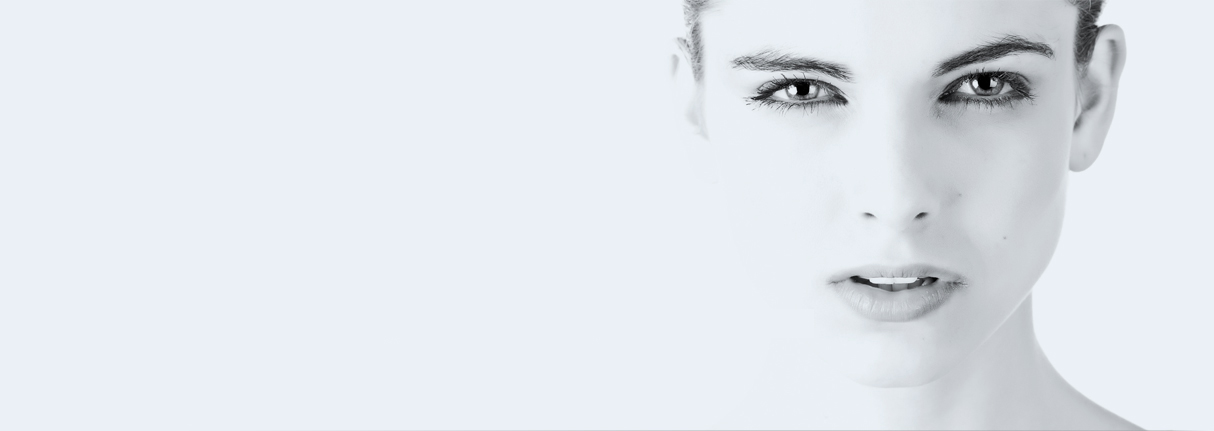
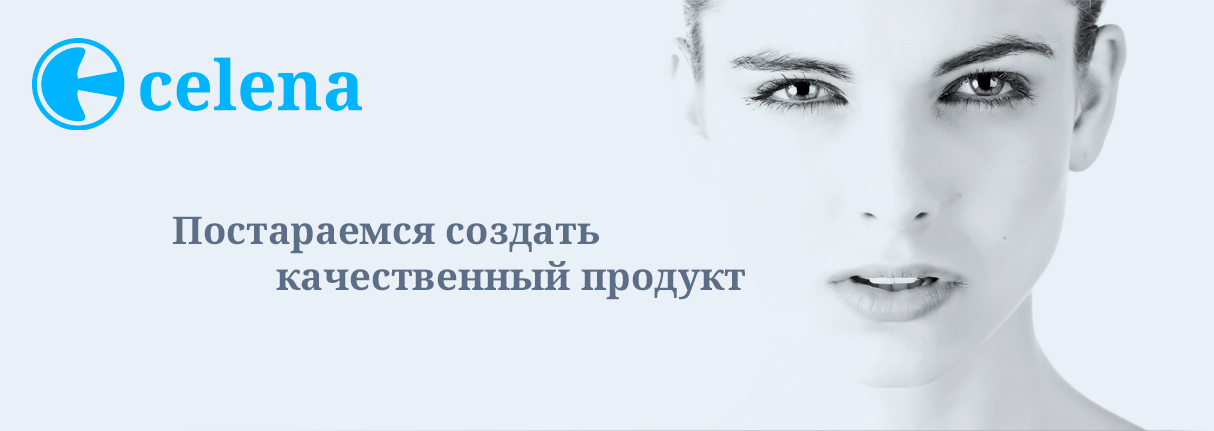
Bata Final

Changed region(s): [[0.0, 0.0905, 0.3048, 0.3016], [0.2133, 0.6032, 0.6096, 0.6937], [0.1219, 0.4826, 0.5181, 0.5731]]

diff --git a/app/core/system/install/css/style.css b/app/core/system/install/css/style.css
@@ -648,7 +648,10 @@ table:not(.table-condensed) td {
 }
 h1{
     font-size: 18px;
-    margin-bottom: 15px;
+    margin-bottom: 10px;
+    display: flex;
+    align-items: center;
+    border-bottom: 1px #87cdff dashed;
 }
 .licence_text{
     background: #f2f3f7;
@@ -682,7 +685,7 @@ input[type="submit"]{
     color: #a9b2c9;
     font-style: italic;
     display: block;
-    margin: -10px 0 20px;
+    margin: -5px 0 20px;
 }
 .errorText{
     color: #F75858;
@@ -720,10 +723,10 @@ input[type="submit"]{
     text-align: center;
 }
 #celena_logo{
[1 lines of base64/hex data omitted]
-    background-size: 27px;
[1 lines of base64/hex data omitted]
+    background-size: 135px;
+    width: 145px;
+    height: 40px;
     display: inline-block;
-    padding: 10px 10px 10px 32px;
-    color: #47b3ff;
-    font-size: 21px;
+    margin-bottom: 5px;
 }

diff --git a/templates/_system/css/panel.css b/templates/_system/css/panel.css
@@ -210,7 +210,7 @@ body::-webkit-scrollbar-thumb{background:#7192A9A5}
     background: #1b202c;
     font-weight: 700;
     font-size: 24px;
-    padding: 14px 15px;
+    padding: 0 15px;
     display: flex;
     justify-content: space-between;
     align-items: center;
@@ -219,10 +219,12 @@ body::-webkit-scrollbar-thumb{background:#7192A9A5}
     color: var(--main-color);
 }
 #celena_logo{
[1 lines of base64/hex data omitted]
-    background-size: 27px;
-    padding-left: 37px;
[1 lines of base64/hex data omitted]
+    background-size: 135px;
+    width: 180px;
+    height: 57px;
     color: #47b3ff;
+    display: block;
 }
 
 .box, .box_{

diff --git a/templates/Web/css/style.css b/templates/Web/css/style.css
@@ -194,11 +194,11 @@ hr{
     z-index: 9900;
 }
 #logo{
[1 lines of base64/hex data omitted]
-    background-size: 50px;
[1 lines of base64/hex data omitted]
+    background-size: 175px;
     width: 208px;
+    height: 66px;
     display: block;
-    padding: 21px 10px 21px 75px;
     color: #47b3ff;
     font-size: 18px;
     font-weight: 600;

diff --git a/templates/Panel/css/style.css b/templates/Panel/css/style.css
@@ -254,7 +254,6 @@ ul{
     background: #f5f8ff;
     font-weight: 700;
     font-size: 24px;
-    padding: 14px 15px;
     display: flex;
     justify-content: space-between;
     align-items: center;

diff --git a/app/core/system/install/steps/Start.php b/app/core/system/install/steps/Start.php
@@ -25,7 +25,7 @@ class Start{
     public function indexAction(){
 
         return '<form action method="POST">
-            <h1><a href="//celena.io/" id="celena_logo" target="_blank">celena</a> Начало установки</h1>
+            <h1><a href="//celena.io/" id="celena_logo" target="_blank" title="Celena logo"></a> Начало установки</h1>
             <div class="licence_text">
                 Lorem ipsum dolor sit amet, consectetur adipisicing elit. Accusamus accusantium ipsum iste itaque iure natus, nisi nobis quibusdam rerum sunt! Ad assumenda autem eaque esse fugiat id iste iure modi neque omnis, optio quas, quisquam sed tempore ut vero, voluptatibus voluptatum! Accusamus eveniet facilis, fugiat in non praesentium quibusdam veniam veritatis? Ad consectetur cupiditate deserunt dolorem fuga id natus quae quibusdam. Architecto iste molestiae natus nulla quisquam! Alias asperiores consectetur culpa magnam modi molestiae, voluptatum. Ad, aliquam assumenda dignissimos doloremque doloribus eaque, est expedita in necessitatibus nemo non nostrum quaerat quos ratione reiciendis sit, tempora tempore veritatis vitae voluptatem? Aliquid amet atque, consequuntur, deleniti eos error expedita facere facilis harum illum minus natus nesciunt nisi, nostrum odit optio perspiciatis quaerat quas quibusdam quo rerum saepe soluta tenetur ut voluptates. Delectus facere facilis, incidunt minus necessitatibus omnis quaerat quis tempora? Accusamus ad aut, consectetur consequuntur cupiditate est excepturi facilis in natus nesciunt non obcaecati officiis quasi quidem soluta veritatis voluptates voluptatum! Accusantium adipisci alias dignissimos dolorem dolores eius eveniet, expedita fuga hic impedit ipsum maxime, minima omnis quisquam quod, ratione sed temporibus voluptas! Accusantium aliquam architecto aspernatur assumenda at earum eligendi eveniet excepturi facere fugit, harum hic illo laborum magnam mollitia nam neque, pariatur perferendis quasi quis quos sed sit totam veniam vitae? Ad commodi consequuntur cumque delectus expedita explicabo facere id illum ipsum laborum numquam, quam quia sed sint tempore tenetur voluptate! Ab ad alias, aliquam amet architecto aut consequatur cum debitis dicta dolore dolorem doloremque ducimus, eligendi exercitationem illum in minus molestiae mollitia necessitatibus nemo omnis perferendis praesentium quaerat quod rerum totam ullam vitae. Animi architecto asperiores assumenda consequatur cum, debitis delectus doloremque esse est illo in incidunt iste itaque labore natus nostrum obcaecati quibusdam reiciendis sapiente soluta sunt suscipit vel vero voluptatibus voluptatum. Animi dolorum error eum tempore.
             </div>

diff --git a/app/core/data/config.php b/app/core/data/config.php
@@ -1,0 +1,89 @@
+<?php
+
+return [
+
+    // вывод ошибок
+    "errors" => 1,
+
+    // вести журнал ошибок
+    "db_log" => 1,
+
+    // помощь разработчику
+    "dev_tools" => 1,
+
+    // какому IP показывать ошибки независимо от настроек выше
+    "dev" => ["127.0.0.1"],
+
+    "home" => "nexshop",
+
+    "ssl" => 1,
+
+    "site_title" => "Celena CMS",
+
+    "site_description" => "Новый движок для создания блогов, магазинов и многих других приложений.",
+
+    "panel" => "panel",
+
+    // ЧПУ: 1 - link
+    // ЧПУ: 2 - ID-link
+    // ЧПУ: 3 - /category/link
+    // ЧПУ: 4 - /category/ID-link
+    "seo_type" => 3,
+
+    // концовка URL товара
+    "seo_type_end" => ".html",
+
+    // разделитель чпу
+    "separator" => " &#10148; ",
+
+    // знак валюты
+    "currency" => "$",
+
+    // копейки
+    "penny" => true,
+
+    // знаков в ID товара
+    "str_pad_id" => 6,
+
+    // знаков в артикуле товара
+    "str_pad_vendor" => 6,
+
+    // количество товаров в категориях
+    "count_prod_by_cat" => 5,
+
+    // размер обрезки загружаемых изображений
+    "origin_image" => 1500,
+
+    // размер уменьшенной копии загружаемых изображений
+    "thumb" => 300,
+
+    // качество загружаемых изображений
+    "quality_image" => 80,
+
+    // качество уменьшенной копии
+    "quality_thumb" => 80,
+
+    // шаблон по умолчанию
+    "template" => "Web",
+
+    // перекидывать на страницу после оформления заказа
+    "after_cart" => "/",
+
+    // email админа
+    "admin_email" => "masterz1zzz@gmail.com",
+
+    "mail_method" => "mail",
+
+    "noreply" => "noreply@kylaksizov.com",
+
+    // SMTP
+    "SMTPHost" => "mail.adm.tools",
+    "SMTPLogin" => "info@kylaksizov.com",
+    "SMTPPassword" => "не скажу",
+    "SMTPSecure" => "ssl",
+    "SMTPPort" => 465,
+    "SMTPFrom" => "info@kylaksizov.com",
+
+    "version" => "0.0.1",
+
+];

diff --git a/app/core/ViewPanel.php b/app/core/ViewPanel.php
@@ -143,7 +143,8 @@ class ViewPanel{
 
         $style = (!empty($_COOKIE["style"]) && $_COOKIE["style"] == 'dark') ? 'dark.css' : 'white.css';
 
-        $styles = '<link rel="stylesheet" href="//'.CONFIG_SYSTEM['home'].'/templates/_system/css/panel.css">';
+        $styles = '<link rel="icon" href="//'.CONFIG_SYSTEM['home'].'/app/core/system/img/favicon.ico" type="image/x-icon">
+    <link rel="stylesheet" href="//'.CONFIG_SYSTEM['home'].'/templates/_system/css/panel.css">';
 
         // https://air-datepicker.com/ru/examples
 
@@ -230,7 +231,7 @@ class ViewPanel{
         $this->tplIndex = str_replace('{STYLES}', $styles, $this->tplIndex);
         $this->tplIndex = str_replace('{SCRIPTS}', $scripts, $this->tplIndex);
         $this->tplIndex = str_replace('{SYSTEMS}', $systems, $this->tplIndex);
-        $this->tplIndex = str_replace('{logo}', '<a href="//'.CONFIG_SYSTEM['home'].'/'.CONFIG_SYSTEM["panel"].'/" id="celena_logo">Celena.io</a> <a href="//'.CONFIG_SYSTEM['home'].'/" target="_blank" class="on_site"></a>', $this->tplIndex);
+        $this->tplIndex = str_replace('{logo}', '<a href="//'.CONFIG_SYSTEM['home'].'/'.CONFIG_SYSTEM["panel"].'/" id="celena_logo" title="Celena logo"></a> <a href="//'.CONFIG_SYSTEM['home'].'/" target="_blank" class="on_site"></a>', $this->tplIndex);
         $this->tplIndex = str_replace('{panel}', '/'.CONFIG_SYSTEM["panel"], $this->tplIndex);
         $this->tplIndex = str_replace('{THEME}', '//'.CONFIG_SYSTEM['home'].'/templates/'.$this->template, $this->tplIndex);
         $this->tplIndex = str_replace('{HOME}', '//'.CONFIG_SYSTEM['home'].'/', $this->tplIndex);

diff --git a/img.php b/img.php
@@ -1,21 +1,6 @@
 <?php
 
-$img = '<svg xmlns="http://www.w3.org/2000/svg" xml:space="preserve" width="67.2042mm" height="67.2042mm" version="1.1" style="shape-rendering:geometricPrecision; text-rendering:geometricPrecision; image-rendering:optimizeQuality; fill-rule:evenodd; clip-rule:evenodd"
-viewBox="0 0 5480.95 5480.95">
- <title>Celena Logo</title>
- <defs>
-  <style type="text/css">
-   <![CDATA[
-    .fil0 {fill:#2f353c}
-   ]]>
-  </style>
- </defs>
- <g id="Слой_x0020_1">
-  <metadata id="CorelCorpID_0Corel-Layer"/>
-  <path class="fil0" d="M2740.48 0c1513.52,0 2740.48,1226.96 2740.48,2740.48 0,1513.52 -1226.96,2740.48 -2740.48,2740.48 -1513.52,0 -2740.48,-1226.96 -2740.48,-2740.48 0,-1513.52 1226.96,-2740.48 2740.48,-2740.48zm-6.92 288.05c1091.67,0 2016.57,713.37 2334.42,1699.32l-2327.5 418.64c-307.08,-838.68 1076.12,-1855.86 -1.25,-1855.86 -1077.37,0 -2190.33,980.65 -2190.33,2190.33 0,1209.68 1112.96,2190.33 2190.33,2190.33 1077.37,0 -305.83,-1019.26 1.25,-1857.94l2327.5 420.73c-317.85,985.95 -1242.75,1699.32 -2334.42,1699.32 -1354.44,0 -2452.43,-1098 -2452.43,-2452.43 0,-1354.43 1097.99,-2452.43 2452.43,-2452.43z"/>
- </g>
-</svg>
-';
+$img = '';
 
 
 

diff --git a/app/core/system/install/Install.php b/app/core/system/install/Install.php
@@ -20,6 +20,12 @@ class Install{
      */
     public function __construct(){
 
+        // install
+        if(file_exists(CORE . '/data/db_config.php')){
+            header("Location: /");
+            exit;
+        }
+
         // POST
         if(!empty($_POST["ajax"])){
             if(!empty($_POST["params"])) mb_parse_str($_POST["params"], $_POST);
@@ -119,7 +125,7 @@ class Install{
                 <meta name="apple-mobile-web-app-capable" content="yes">
                 <meta name="apple-mobile-web-app-status-bar-style" content="default">
         
-                <link rel="shortcut icon" href="{THEME}/img/favicon.ico">
+                <link rel="shortcut icon" href="/app/core/system/img/favicon.ico">
                 <link rel="stylesheet" href="/app/core/system/install/css/style.css">
         
                 <script type="text/javascript" src="/templates/_system/js/jquery.min.js"></script>

diff --git a/app/core/Router.php b/app/core/Router.php
@@ -2,6 +2,7 @@
 
 namespace app\core;
 
+use app\traits\Log;
 use app\traits\Users;
 
 class Router{
@@ -242,7 +243,13 @@ class Router{
             $User = $this->getAuth($_COOKIE["uid"], $_COOKIE["uhash"]);
             define("USER", $User ?: FALSE);
             // если false - значит кто-то пытается подменить данные !!!!!!!!!!!!!!!!!!!!!
-            if(USER === FALSE) System::log();
+            if(USER === FALSE){
+                //Log::add();
+                SetCookie("uid", "", time() - (3600 * 10000), "/");
+                SetCookie("uhash", "", time() - (3600 * 10000), "/");
+                header("Location: /");
+                die();
+            }
 
         } else define("USER", NULL);
     }

diff --git a/app/core/system/install/steps/Step_1.php b/app/core/system/install/steps/Step_1.php
@@ -37,7 +37,7 @@ class Step_1{
         $errorText = !empty($allowed) ? '<p class="errorText">Исправьте проблемы и обновите страницу</p>' : '';
 
         return '<form action method="POST">
-            <h1><a href="//celena.io/" id="celena_logo" target="_blank">celena</a> Проверка системы</h1>
+            <h1><a href="//celena.io/" id="celena_logo" target="_blank" title="Celena logo"></a> Проверка системы</h1>
             <p class="step_description">Данный шаг ещё в процессе доработки</p>
             <div class="system_test">
             

diff --git a/app/core/system/install/steps/Step_2.php b/app/core/system/install/steps/Step_2.php
@@ -323,7 +323,7 @@ return [
     public function indexAction(){
 
         return '<form action method="POST">
-            <h1><a href="//celena.io/" id="celena_logo" target="_blank">celena</a> Доступы</h1>
+            <h1><a href="//celena.io/" id="celena_logo" target="_blank" title="Celena logo"></a> Доступы</h1>
             <div class="dg access">
                 <div>
                     <h3 class="title_hr">База данных</h3>
